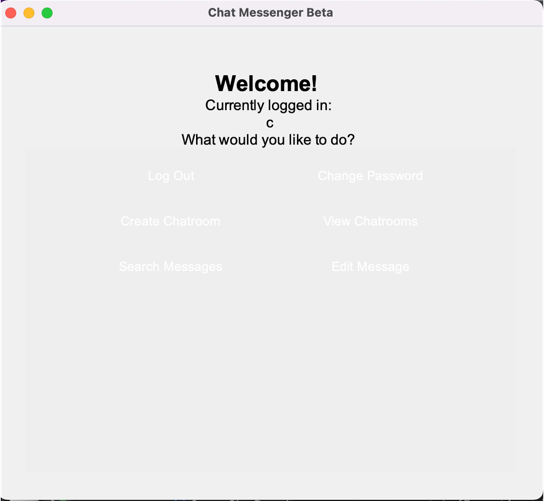
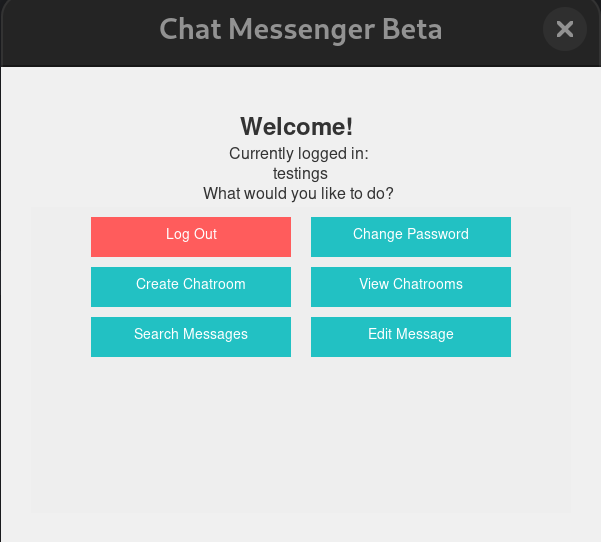
changed screenshots in readme

Changed region(s): [[0.0, 0.0, 1.0, 0.6587], [0.0, 0.988, 1.0, 1.0]]

diff --git a/README.md b/README.md
@@ -19,7 +19,7 @@ This is a great program for users to be able to communicate with friends virtual
 
 To access most of the following features, 
 When you run the app, log in or sign up, until you are on the logged in screen below
-[img_3.png](img_3.png)
+![img_3.png](img_3.png)
 
 ***
 
@@ -29,7 +29,7 @@ This feature allows the user to create chatrooms and add other participants.
 From the logged in view, click on the create chatroom button, which will lead you to the screen below.
 Choose a name for your chatroom, add participants and you can add an optional first message! Then click create.
 
-![img_4.png](img_4.png)
+![img_11.png](img_11.png)
 
 Now, you can access your chatroom from the view chatrooms screen.
 
@@ -39,7 +39,7 @@ Now, you can access your chatroom from the view chatrooms screen.
 This feature allows the user to see the chatrooms they are a part of and to join a chatroom.
 
 From the logged in view, click on the view chatrooms button, which will lead you to the screen below.
-![img_5.png](img_5.png)
+![img_12.png](img_12.png)
 
 Here, you can see all the chatrooms you are a part of and can click on any of them to join them.
 
@@ -68,6 +68,7 @@ Now you have the program downloaded!
 #### Notes:
 - Make sure to have the latest version of IntelliJ
 - Use openjdk-22 version of Java
+- On the Mac OS the colours on the buttons aren't visible so it'll be white
 
 ***
 
@@ -78,18 +79,18 @@ Once the application is installed and running, follow the steps below to start u
 ### To Sign Up:
 1. Enter a valid **username** and **password**.
 
-![img_6.png](img_6.png)
+![img_5.png](img_5.png)
 2. Click on the **Sign Up** button.
 3. From the login screen, re-enter your username and password to access the logged in screen.
 
-![img_7.png](img_7.png)
-![img_8.png](img_8.png)
 
+![img_7.png](img_7.png)
+![img_3.png](img_3.png)
 ### To Send a Message:
 1. Log in with your credentials.
 2. Navigate to an existing chat room or create a new one.
 
-![img_9.png](img_9.png)
+![img_12.png](img_12.png)
 3. Type your message in the input field and press **Send**.
 
 ![img_10.png](img_10.png)
